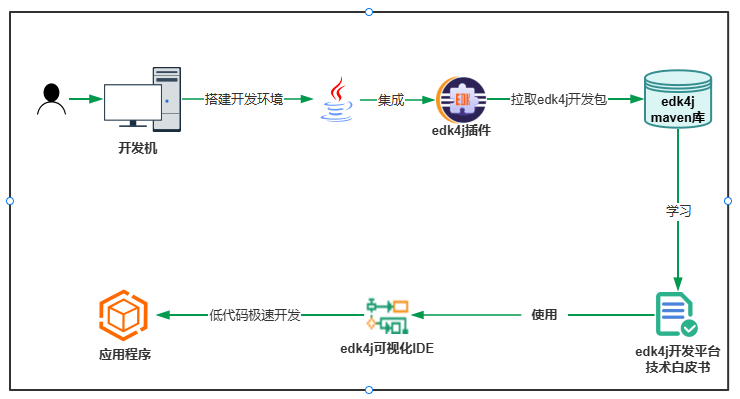
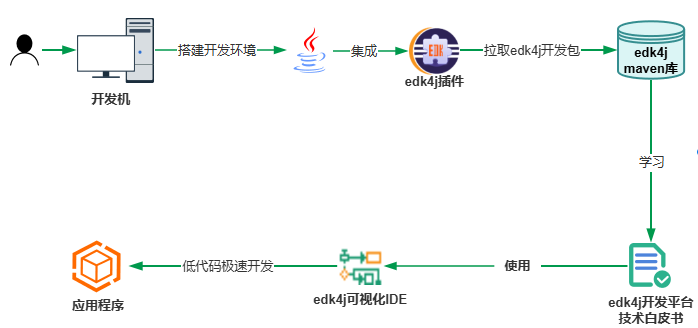
完善

Changed region(s): [[0.0, 0.0305, 0.9928, 1.0], [0.4814, 0.0, 0.5115, 0.061]]

diff --git a/css/dom.css b/css/dom.css
@@ -415,6 +415,12 @@ pre {
 	padding:0.05rem;
 	margin:0.05rem;
 }
+.flex-box{
+	display: flex;
+	align-items: center;
+	justify-content: center;
+	height: calc(100% - 0.5rem);
+}
 .addBorder{
 	border:0.01rem solid #d1e2ff;
 	border-radius:0.06rem;
@@ -462,7 +468,7 @@ tbody tr:hover td {
 	background-color:#fafafa;
 }
 .across tr:hover td {
-	background-color: #fffaf0;
+	background-color: rgb(255, 242, 215);
 }
 .colorButtonDisable{
 	opacity:0.5;
@@ -677,9 +683,11 @@ tbody tr:hover td {
 	-moz-transition:-moz-transform .15s linear;
 	-o-transition:-o-transform .15s linear;
 	-webkit-transition:-webkit-transform .15s linear;
+	transition: transform .15s linear;
 	-webkit-transform:rotate(6deg);
 	-moz-transform:rotate(6deg);
 	-o-transform:rotate(6deg);
+	transform:rotate(6deg);
 	text-shadow: 0.01rem 0.01rem 0 #faff9b;
 	color: #d37e00;
 	border: 0.01rem solid #f49502;
@@ -709,6 +717,7 @@ tbody tr:hover td {
 	-webkit-transform:rotate(-4deg);
 	-moz-transform:rotate(-4deg);
 	-o-transform:rotate(-4deg);
+	transform:rotate(-4deg);
 	background-image: linear-gradient(#fffaed,#ffc773);
 	text-shadow: 0.01rem 0.01rem 0 #ffae6d;
 	color: #9b5d00;
@@ -718,6 +727,7 @@ tbody tr:hover td {
 	-webkit-transform:rotate(5deg);
 	-moz-transform:rotate(5deg);
 	-o-transform:rotate(5deg);
+	transform:rotate(5deg);
   	background-image: linear-gradient(#f4fbf1,#bcffbc);
   	text-shadow: 0.01rem 0.01rem 0 #c6ffa8;
 	color: #007a00;
@@ -727,6 +737,7 @@ tbody tr:hover td {
 	-webkit-transform:rotate(5deg);
 	-moz-transform:rotate(5deg);
 	-o-transform:rotate(5deg);
+	transform:rotate(5deg);
   	background-image: linear-gradient(#f5fcff,#b1f8ff);
   	text-shadow: 0.01rem 0.01rem 0 #9bfff9;
 	color: #005cd3;
@@ -736,11 +747,13 @@ tbody tr:hover td {
 	-webkit-transform:rotate(-4deg);
 	-moz-transform:rotate(-4deg);
 	-o-transform:rotate(-4deg);
+	transform:rotate(-4deg);
 }
 .note>div:nth-child(10n){
 	-webkit-transform:rotate(-4deg);
 	-moz-transform:rotate(-4deg);
 	-o-transform:rotate(-4deg);
+	transform:rotate(-4deg);
 	background:#ccfffd;
 }
 /*右方向粗箭头，html中&#10148;，css中\27A4*/

diff --git a/view/104/104.2.html b/view/104/104.2.html
@@ -101,13 +101,18 @@
 				<td>Maven官网下载，如果eclipse中有maven插件时，可以不安装</td>
 			</tr>
 			<tr>
+				<td>redis insight</td>
+				<td>
+					<a href="https://redis.io/insight" target="_blank">https://redis.io/insight</a>
+				</td>
+				<td>redis官方客户端</td>
+			</tr>
+			<tr>
 				<td>Redis Desktop Manager</td>
 				<td>
 					<a href="https://github.com/uglide/RedisDesktopManager/releases/tag/0.8.8" target="_blank">到github下载</a>
-					<br>
-					<a href="https://resp.app/" target="_blank">到官方网址下载</a>
 				</td>
-				<td>经典redis可视化管理客户端</td>
+				<td>早期经典的redis可视化管理客户端</td>
 			</tr>
 			<tr>
 				<td>AnotherRedisDesktopManager</td>
@@ -124,11 +129,11 @@
 				<td>下载解压后直接复制到eclipse目录中完成安装，创建eclipse快捷方式，在尾部添加语种参数<br>例如中文可设置为：.../eclipse.exe -nl zh_CN</td>
 			</tr>
 			<tr>
-				<td>xshell、xftp</td>
+				<td>WindTerm</td>
 				<td>
-					<a href="https://www.xshell.com/zh/free-for-home-school/" target="_blank">到官方网址下载</a>
+					<a href="https://github.com/kingToolbox/WindTerm/releases" target="_blank">到github下载</a>
 				</td>
-				<td>linux终端工具</td>
+				<td>linux终端工具<br>用C语言实现；体积小；功能全面；操作界面优秀<br>开源免费</td>
 			</tr>
 			<tr>
 				<td>github客户端</td>

diff --git a/view/1/1.3.html b/view/1/1.3.html
@@ -31,8 +31,6 @@
 	</div>
 	<div style="margin:0.05rem;">
 		<div id="tabs" class="sd_tab">
-			<div class="sd_tab_out" onclick="SDTab.altTab(document.getElementById('tabs'), document.getElementById('tabContents'),1);">传统“硬编码”开发模式</div>
-			<div class="sd_tab_out" onclick="SDTab.altTab(document.getElementById('tabs'), document.getElementById('tabContents'),2);">“软编码”开发模式</div>
 			<div class="sd_tab_in" onclick="SDTab.altTab(document.getElementById('tabs'), document.getElementById('tabContents'),3);">“软编码”VS“硬编码”</div>
 		</div>
 		<div id="tabContents" class="tabContentDiv">
@@ -87,7 +85,7 @@
 					<div style="width:calc(50% - 1rem);height:3rem;position:relative;text-align:left;">
 						<div style="width:100%;height:0.6rem; font-weight:bold;font-size:0.2rem;text-align:center;">
 							edk4j平台软编码(soft code) 开发模式<br>
-							配置优先，搭积木式设计开发
+							拖拽作业，配置优先，搭积木式设计开发
 						</div>
 						<div style="width:90%;height:0.1rem;margin-bottom:0.1rem;border:0;border-bottom:1px dotted;display:inline-block;"></div>
 						<div style="text-align:left;display:inline-block;width:4rem;text-align:left;margin-left:0.5rem;">

diff --git a/view/4/4.2.html b/view/4/4.2.html
@@ -48,16 +48,16 @@
 			本地安装maven，配置本地maven库
 		</div>
 		<div class="subTitleDiv">
-			安装dbeave、another redis desktop manage、xshell等客户端工具
+			安装客户端工具：dbeave、redis insight
 		</div>
 		<div class="subTitleDiv">
-			安装“Postman” 或者 “Edge/chrome浏览器的Dev Http Client插件”等ajax调用插件
+			安装“Postman”测试工具
 		</div>
 	</div>
 	<div class="tabTitleDiv">安装包/资源下载</div>
 	<p class="tabTitleLine"></p>
 	<div class="contentDiv">
-		参见<a href="#">104章：下载中心</a>，搭建本地maven环境，下载开发软件安装包
+		<a href="../104/104.2.html">去下载中心</a>
 	</div>
 </body>
 </html>

diff --git a/view/104/104.1.html b/view/104/104.1.html
@@ -6,7 +6,7 @@
 	<script type="text/javascript" src="../../javascript/components/google-code-prettify/util.js"></script>
 	<script type="text/javascript" src="../../javascript/core/domUtil.js"></script>
 	<link rel="stylesheet" href="../../javascript/components/google-code-prettify/prettify.css" type="text/css"/>
-	<link type="text/css"  rel="stylesheet" href="../../css/dom.css"/>
+	<link type="text/css" rel="stylesheet" href="../../css/dom.css"/>
 	<script type="text/javascript">
 		function init(){
 			PR.prettyPrint();

diff --git a/view/welcome.html b/view/welcome.html
@@ -277,7 +277,7 @@
 				<div class="card">
 					<div class="card-title">
 						<span class="card-number">3</span>
-						<span>全程绘制式开发</span>
+						<span>全程拖拽作业，绘制式开发</span>
 					</div>
 					<div class="card-content">
 						可视化ide支持，以拖拽组合、组件化绘图式地进行开发。<br>

diff --git a/view/5/5.1.html b/view/5/5.1.html
@@ -9,6 +9,8 @@
 	<div id="title" class="titleDiv">
 		5.1、edk4j中一次交易的运行机制时序图
 	</div>
+	<div class="flex-box">
 	<img src="../../image/business/5/5.1-1.png" style="margin:0.2rem auto;display:table-cell;"/>
+	</div>
 </body>
 </html>

diff --git a/view/4/4.1.html b/view/4/4.1.html
@@ -11,7 +11,7 @@
 	<div id="title" class="titleDiv">
 		4.1、edk4j开发平台使用套路
 	</div>
-	<div>
+	<div class="flex-box">
 		<img src="../../image/business/1/1.4-2.png" style="margin:0 auto;display:table-cell;"/>
 	</div>
 </body>

diff --git a/view/1/1.5.html b/view/1/1.5.html
@@ -11,7 +11,7 @@
 	<div id="title" class="titleDiv">
 		1.5、平台运行机制
 	</div>
-	<div>
+	<div class="flex-box">
 		<img src="../../image/business/1/structure.png"/>
 	</div>
 </body>
